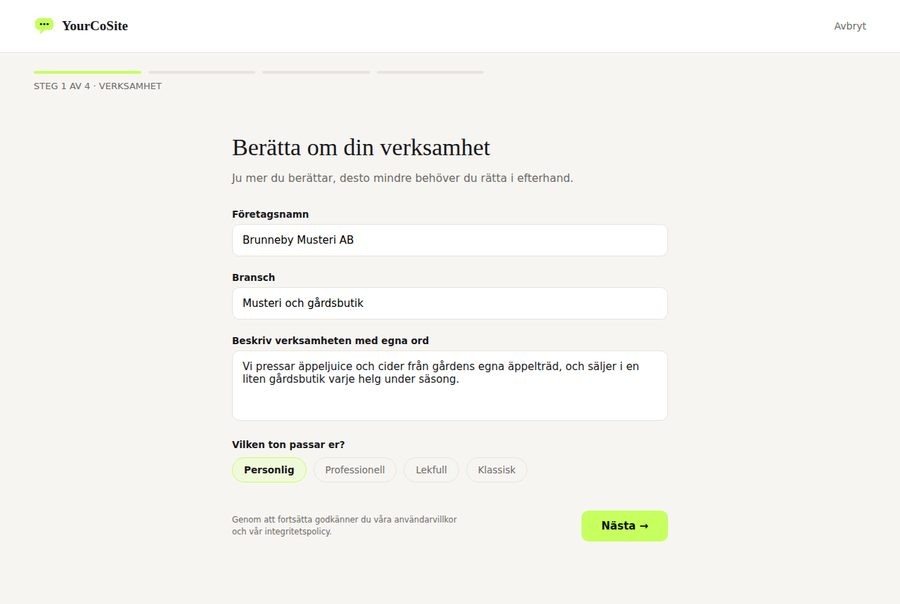
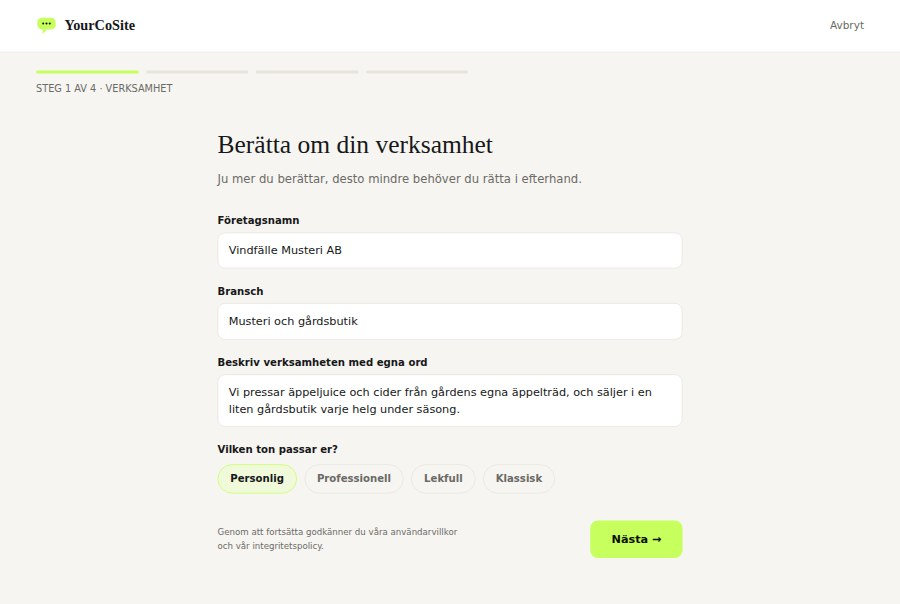
Byt ut verkligt företagsnamn i exempelbilderna mot påhittat (Vindfälle Musteri AB); steg 3 visar ny mörk mall
Claude-Session: https://claude.ai/code/session_018Upn9eQcK4Fq3db2qQAPEf

diff --git a/app/onboarding/1/page.tsx b/app/onboarding/1/page.tsx
@@ -78,7 +78,7 @@ export default function OnboardingStep1() {
               type="text"
               value={name}
               onChange={(e) => setName(e.target.value)}
-              placeholder="T.ex. Brunneby Musteri AB"
+              placeholder="T.ex. Vindfälle Musteri AB"
               className="w-full box-border px-3.5 py-3 border border-line rounded-[10px] text-[15px]"
             />
           </div>
